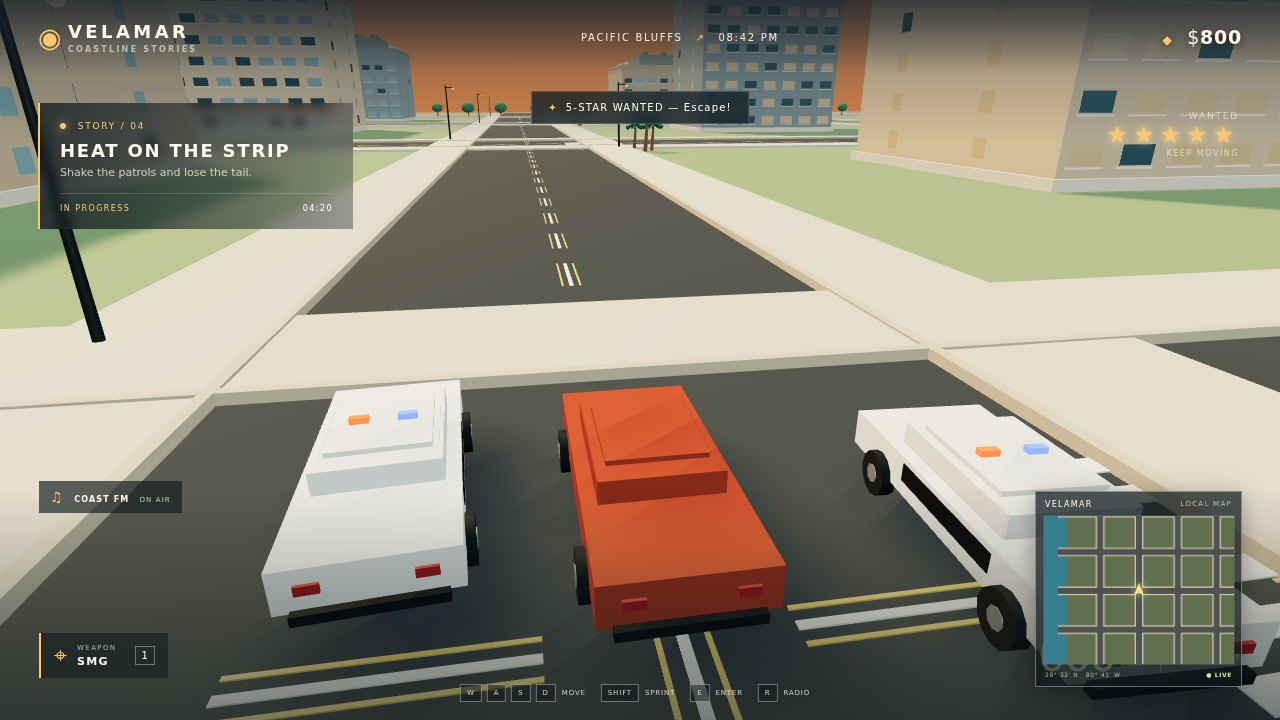
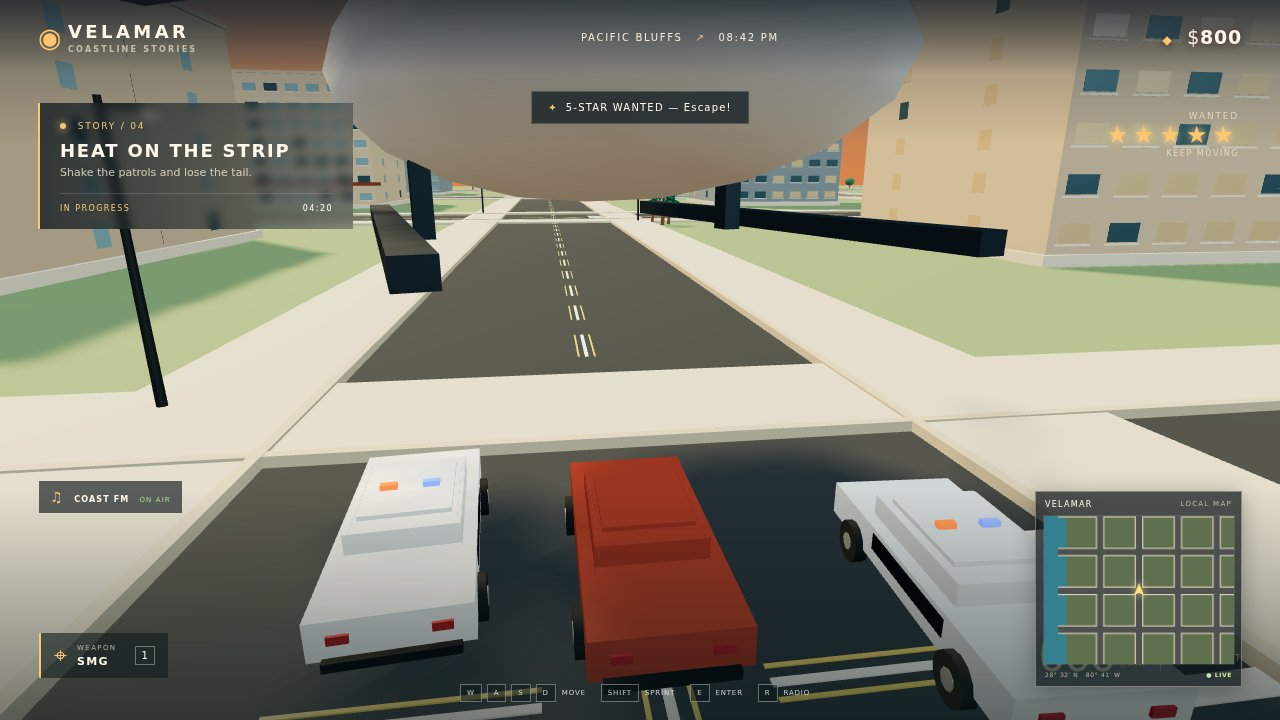
Make chase helicopter clearly visible by lowering camera target and placing heli in frame

diff --git a/game/src/systems/camera-rig.js b/game/src/systems/camera-rig.js
@@ -54,10 +54,11 @@ export class CameraRig {
       offset = new THREE.Vector3(2.2, 3.45, 8.8);
       fov = 58;
     } else if (name === 'chase') {
-      // Close rear chase framing: player car large, two cruisers trailing, heli ahead in sky.
-      target = new THREE.Vector3(p.position.x + 0.2, 1.65, p.position.z - 1.8);
-      offset = new THREE.Vector3(-1.6, 3.55, 9.2);
-      fov = 56;
+      // Chase framing tilted up so sky fills the upper frame and the helicopter is clearly visible,
+      // while keeping player car large and trailing police in view.
+      target = new THREE.Vector3(p.position.x + 0.1, 3.15, p.position.z - 1.0);
+      offset = new THREE.Vector3(-1.3, 2.6, 9.1);
+      fov = 58;
     } else if (name === 'mission') {
       target = new THREE.Vector3(p.position.x, 2.2, p.position.z - 4.5);
       offset = new THREE.Vector3(8.5, 4.6, 12.5);

diff --git a/game/src/entities/shot-staging.js b/game/src/entities/shot-staging.js
@@ -64,9 +64,10 @@ export function stageScene(name, { scene, player, traffic, pedestrians, missions
       id: 70002, x: 96.1, z: 275.4, heading: -0.06, siren: 1.1,
     });
 
-    // Helicopter in the sky in front of the camera, large and clearly visible.
+    // Helicopter low and large directly in the camera's line of sight (above the road ahead)
+    // so it reads clearly as a helicopter in frame, not a distant speck outside the frustum.
     stageHelicopter(traffic, scene, {
-      x: 95, y: 15, z: 268, heading: 0.35, scale: 1.6,
+      x: 91.5, y: 7.2, z: 270.5, heading: 0.25, scale: 3.4,
     });
 
     cameraRig.stageShot('chase', scene, traffic, missions);
